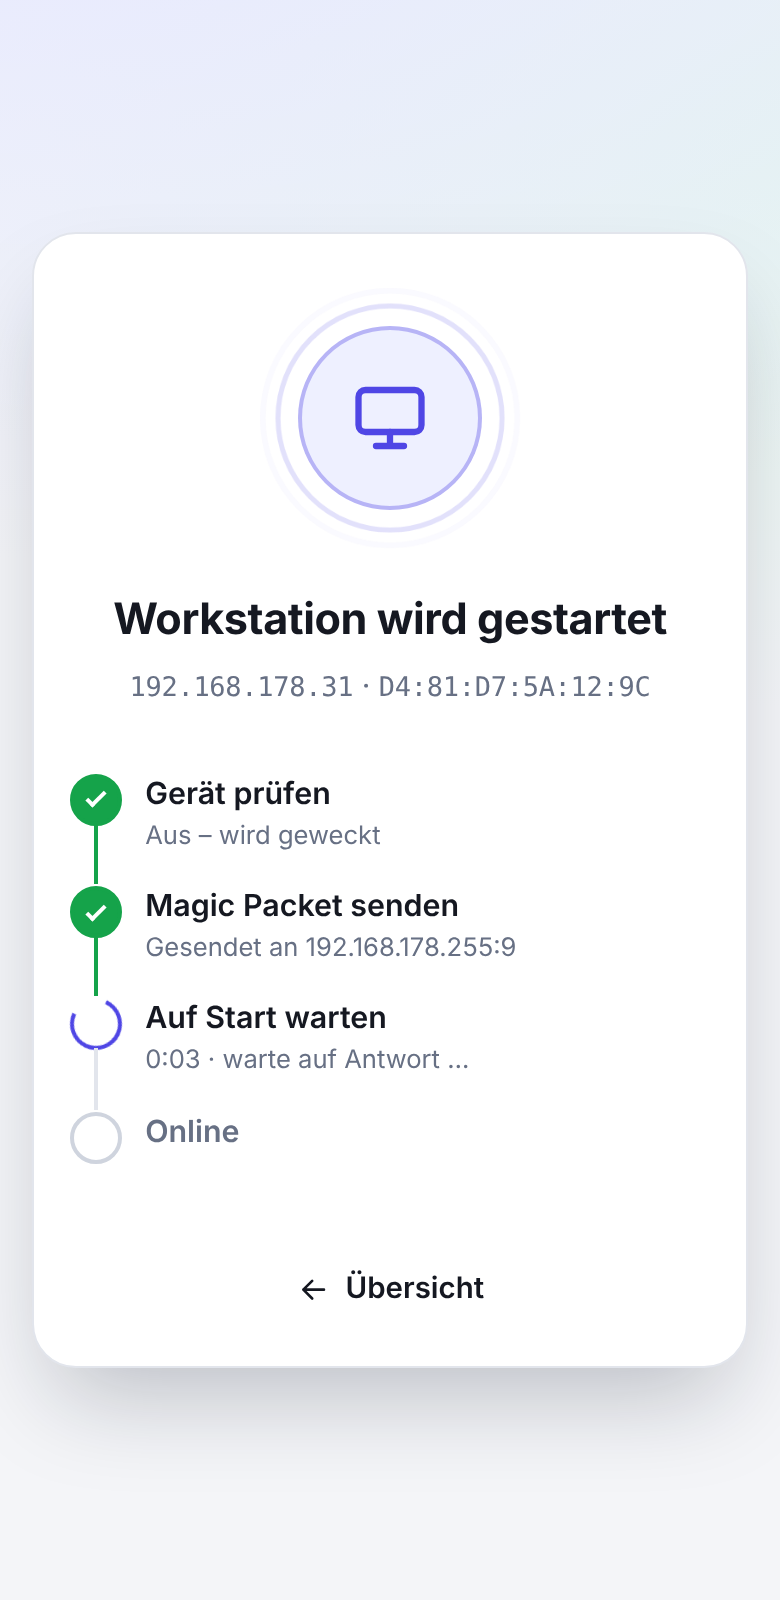
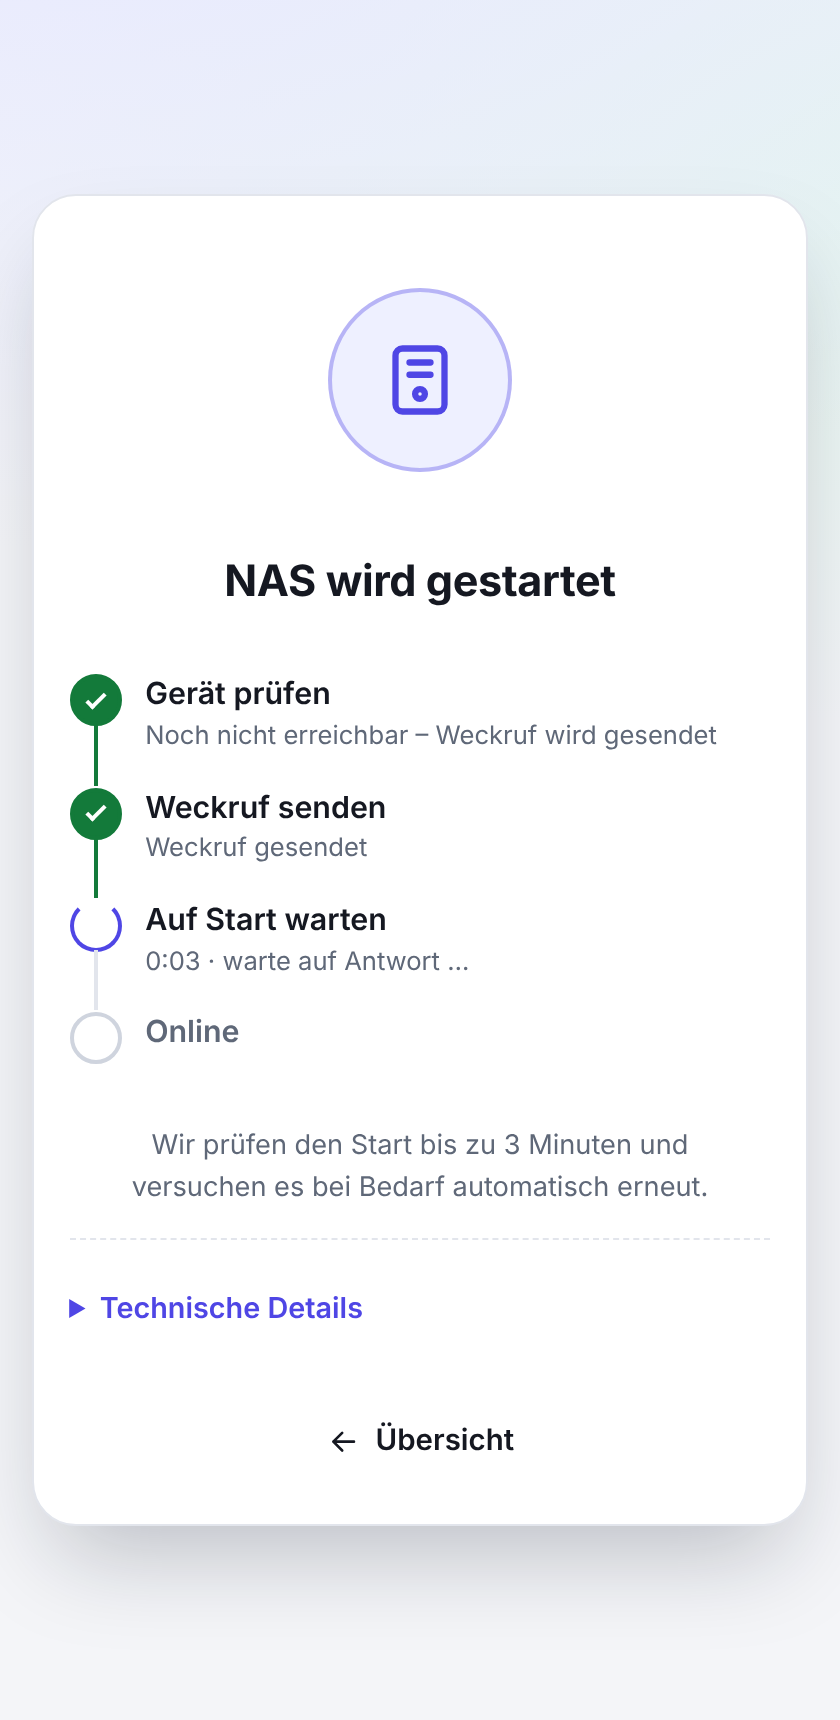
Beispieldaten: keine echt wirkenden Adressen mehr in Doku, Oberfläche, Tests und Bildern
- Screenshots neu – mit der Oberfläche von 1.2 und nur erfundenen Daten:
  Geräte in 192.168.1.x / 10.0.0.x, lokal verwaltete MACs (02:…). Das
  Skript e2e/screenshots.js startet dafür einen eigenen Testserver und
  ersetzt alles, was vom echten Rechner käme (Status, Suchtreffer,
  Schnittstellen, Verlauf), durch Beispieldaten; README nennt es.
- VLAN-Beispiele in README, Einstellungsseite, Texten und Code-Kommentar:
  10.0.0.0/24 statt 192.168.20.0/24.
- Tests: echt aussehende MAC (28:c6:8e:…) durch eine erfundene ersetzt;
  Beispielnetze auf 192.168.1.x / 10.0.0.x. Bewusst geblieben sind die
  Dokumentationsnetze nach RFC 5737 (192.0.2.x, 198.51.100.x, 203.0.113.x)
  – sie dürfen in keinem echten Netz antworten, darauf bauen „offline“-
  und „nicht angeschlossen“-Tests – sowie 172.16.4.0/22 und 10.0.0.0/8 in
  der Broadcast-Berechnung (andere Präfixlängen).
- Testserver: Wartezeiten lassen sich für die Screenshots überschreiben.

Claude-Session: https://claude.ai/code/session_01XTuvtWXjdYAjZCNznXZTMt

diff --git a/e2e/screenshots.js b/e2e/screenshots.js
@@ -1,0 +1,183 @@
+// Screenshots fürs README: node screenshots.js (im Ordner e2e, nach npm ci).
+//
+// Startet einen eigenen Testserver (server.sh) und legt erfundene Geräte an. Alles, was vom
+// echten Rechner käme – Online-Status, Suchtreffer, Schnittstellen, Verlauf –, wird in den
+// Antworten des Servers durch Beispieldaten ersetzt: nur 192.168.1.x / 10.0.0.x und lokal
+// verwaltete MACs (02:…), damit keine echten Adressen in die Bilder geraten.
+const { chromium } = require("@playwright/test");
+const { spawn } = require("child_process");
+const path = require("path");
+
+const PORT = 8431;
+const BASE = `http://127.0.0.1:${PORT}/`;
+const OUT = path.join(__dirname, "..", "docs", "screenshots");
+const H = { "X-WolWeb": "1", "Content-Type": "application/json" };
+
+const ago = (min) => new Date(Date.now() - min * 60000).toISOString();
+const mac = (n) => "02:00:00:00:01:" + n.toString(16).padStart(2, "0").toUpperCase();
+
+// Geräte: online mit Methode, sonst zuletzt gesehen vor … Minuten.
+const DEVICES = [
+  { name: "Drucker", icon: "printer", ip: "192.168.1.40", group: "Büro", online: "icmp" },
+  { name: "Gaming-PC", icon: "desktop", ip: "192.168.1.30", group: "Büro", online: "icmp", rtt: 1 },
+  { name: "Workstation", icon: "desktop", ip: "192.168.1.31", group: "Büro", seen: 17 * 60, schedule: ["Mo-Fr 07:30"] },
+  { name: "Backup-NAS", icon: "nas", ip: "192.168.1.21", group: "Homelab", seen: 3 * 1440, schedule: ["So 03:00"] },
+  { name: "NAS", icon: "nas", ip: "192.168.1.20", group: "Homelab", online: "icmp", note: "Backups und Medien" },
+  { name: "Proxmox", icon: "server", ip: "192.168.1.10", group: "Homelab", online: "tcp/8006", rtt: 2 },
+  { name: "PlayStation", icon: "console", ip: "192.168.1.46", seen: 5 * 1440 },
+  { name: "Wohnzimmer-TV", icon: "tv", ip: "10.0.0.45", seen: 4 * 60 },
+];
+
+const FOUND = [
+  { mac: mac(0x50), ip: "192.168.1.50", hostname: "raspberrypi", vendor: "Raspberry Pi Foundation", network: "192.168.1.0/24" },
+  { mac: mac(0x60), ip: "192.168.1.60", hostname: "homeassistant", vendor: "Raspberry Pi Trading Ltd", network: "192.168.1.0/24" },
+  { mac: mac(0x70), ip: "10.0.0.70", hostname: "steckdose-kueche", vendor: "Espressif Inc.", network: "10.0.0.0/24" },
+  { mac: mac(0x80), ip: "192.168.1.80", hostname: "MacBook-Air", vendor: "Apple, Inc.", network: "192.168.1.0/24" },
+];
+
+const NETS = [
+  { cidr: "192.168.1.0/24", name: "Heimnetz", vlan: 0, iface: "eth0", addr: "192.168.1.2" },
+  { cidr: "10.0.0.0/24", name: "IoT", vlan: 20, iface: "eth0.20", addr: "10.0.0.2" },
+];
+
+function startServer() {
+  // Wartezeiten wie im Betrieb (die Browsertests nehmen kurze)
+  const env = { ...process.env, PORT: String(PORT), WOLWEB_WAKE_TIMEOUT: "3m", WOLWEB_WAKE_RETRY: "45s" };
+  const srv = spawn("sh", ["server.sh"], { cwd: __dirname, env, stdio: "ignore" });
+  return srv;
+}
+async function waitUp(request) {
+  for (let i = 0; i < 180; i++) {
+    try { if ((await request.get(BASE + "health")).ok()) return; } catch (e) { /* startet noch */ }
+    await new Promise((r) => setTimeout(r, 1000));
+  }
+  throw new Error("Testserver startet nicht");
+}
+
+// Antworten des Servers durch die Beispieldaten ergänzen.
+async function fake(page, ids) {
+  const byName = Object.fromEntries(DEVICES.map((d) => [d.name, d]));
+  const status = (d) => d.online
+    ? { state: "online", ip: d.ip, method: d.online, rtt_ms: d.rtt || 0, checked_at: ago(0), last_seen: ago(0) }
+    : { state: "offline", ip: d.ip, checked_at: ago(0), last_seen: ago(d.seen) };
+  const json = (route, body) => route.fulfill({ status: 200, contentType: "application/json", body: JSON.stringify(body) });
+  const pass = async (route, edit) => {
+    const res = await route.fetch();
+    json(route, edit(await res.json()));
+  };
+  await page.route("**/api/v1/events", (r) => r.abort()); // keine Live-Updates mit echten Werten
+  await page.route("**/api/v1/devices", (r) => pass(r, (list) => list.map((v) => {
+    const d = byName[v.name];
+    return d ? { ...v, status: status(d), check_ip: d.ip } : v;
+  })));
+  await page.route(/\/api\/v1\/devices\/[^/]+\/status$/, (r) => {
+    const id = r.request().url().split("/").slice(-2)[0];
+    const d = DEVICES.find((x) => ids[x.name] === id);
+    return json(r, status(d || DEVICES[0]));
+  });
+  await page.route("**/api/v1/info", (r) => pass(r, (v) => ({
+    ...v, version: "1.2.0", networks: NETS.map((n) => n.cidr), networks_auto: false, network_choices: [], timezone: "Europe/Berlin",
+    local_networks: NETS.map((n) => ({ interface: n.iface, addr: n.addr, prefix: n.cidr, broadcast: n.cidr.replace(/0\/24$/, "255:9") })),
+  })));
+  await page.route("**/api/v1/discovery", (r) => json(r, {
+    job: { running: false, networks: NETS.map((n) => n.cidr), method: "arp", total: 508, done: 508, found: FOUND.length + 4, new: FOUND.length, finished_at: ago(19), auto: false },
+    found: FOUND.map((f) => ({ ...f, first_seen: ago(19), last_seen: ago(19), broadcast: f.ip.replace(/\d+$/, "255:9") })),
+  }));
+  await page.route("**/api/v1/settings", (r) => r.request().method() !== "GET" ? r.continue() : pass(r, (v) => ({
+    ...v, locked: {}, file: "config.json", settings_file: "data/settings.json", auto_network: "",
+    settings: { ...v.settings, bcastip: "", discovery: { ...v.settings.discovery, networks: NETS.map((n) => ({ cidr: n.cidr, name: n.name, vlan: n.vlan, scan: true })) } },
+    networks: NETS.map((n) => ({ cidr: n.cidr, name: n.name, vlan: n.vlan, scan: true, label: n.vlan ? `${n.name} (VLAN ${n.vlan})` : n.name,
+      broadcast: n.cidr.replace(/0\/24$/, "255:9"), local: { interface: n.iface, addr: n.addr, prefix: n.cidr, broadcast: n.cidr.replace(/0\/24$/, "255:9") },
+      devices: DEVICES.filter((d) => d.ip.startsWith(n.cidr.slice(0, -4))).length, found: FOUND.filter((f) => f.network === n.cidr).length })),
+    interfaces: NETS.map((n) => ({ interface: n.iface, addr: n.addr, prefix: n.cidr, broadcast: n.cidr.replace(/0\/24$/, "255:9"), configured: true })),
+  })));
+  await page.route("**/api/v1/schedule/preview*", (r) => pass(r, (v) => ({ ...v, zone: "Europe/Berlin" })));
+  await page.route("**/api/v1/history*", (r) => json(r, { events: [
+    { time: ago(2), id: ids.NAS, device: "NAS", source: "link", client: "192.168.1.66", target: "192.168.1.255:9", success: true, checkable: true, started: ago(1.3) },
+    { time: ago(60), id: ids.Proxmox, device: "Proxmox", source: "group", group: "Homelab", target: "192.168.1.255:9", success: true, checkable: true, was_online: true },
+    { time: ago(61), id: ids["Backup-NAS"], device: "Backup-NAS", source: "group", group: "Homelab", target: "192.168.1.255:9", success: true, checkable: true },
+    { time: ago(600), id: ids.Workstation, device: "Workstation", source: "schedule", target: "192.168.1.255:9", success: true, checkable: true, started: ago(599) },
+    { time: ago(1500), id: ids["Wohnzimmer-TV"], device: "Wohnzimmer-TV", source: "ui", target: "10.0.0.255:9", success: false, error: "Netzwerkschnittstelle „eth0.20“: nicht gefunden" },
+  ] }));
+}
+
+async function shoot(browser, name, opts, run) {
+  const { element, ...ctxOpts } = opts;
+  const ctx = await browser.newContext({ viewport: { width: 1280, height: 900 }, deviceScaleFactor: 1, locale: "de-DE", colorScheme: "light", reducedMotion: "reduce", ...ctxOpts });
+  const page = await ctx.newPage();
+  await fake(page, shoot.ids);
+  await run(page);
+  await page.waitForTimeout(800); // Leiste und Dialoge sind eingeblendet, Symbole gezeichnet
+  await page.evaluate(() => Promise.all(document.getAnimations().filter((a) => a.effect && a.effect.getComputedTiming().endTime !== Infinity).map((a) => a.finished.catch(() => {}))));
+  const file = path.join(OUT, name + ".png");
+  if (element) await page.locator(element).screenshot({ path: file });
+  else await page.screenshot({ path: file });
+  await ctx.close();
+  console.log("✓", name);
+}
+
+(async () => {
+  const srv = startServer();
+  const browser = await chromium.launch({ args: ["--lang=de-DE"] }); // Uhrzeitfeld im 24-Stunden-Format
+  try {
+    const ctx = await browser.newContext();
+    await waitUp(ctx.request);
+    const ids = {};
+    for (const [i, d] of DEVICES.entries()) {
+      const res = await ctx.request.post(BASE + "api/v1/devices", { headers: H, data: {
+        name: d.name, mac: mac(i + 1), ip: d.ip, icon: d.icon, group: d.group || "", note: d.note || "", schedule: d.schedule || [], broadcast: "127.0.0.1:9" } });
+      ids[d.name] = (await res.json()).id;
+    }
+    await ctx.close();
+    shoot.ids = ids;
+    const overview = async (page, url = "./") => {
+      await page.goto(BASE + url.replace(/^\.\//, ""));
+      await page.locator(".card").nth(DEVICES.length - 1).waitFor();
+      await page.locator(".pill.online").first().waitFor();
+    };
+
+    await shoot(browser, "overview-light", { viewport: { width: 1280, height: 1050 } }, (p) => overview(p));
+    await shoot(browser, "overview-dark", { viewport: { width: 1280, height: 1050 }, colorScheme: "dark" }, (p) => overview(p));
+    await shoot(browser, "overview-en", { viewport: { width: 1280, height: 1050 }, locale: "en-GB" }, (p) => overview(p, "./?lang=en"));
+    await shoot(browser, "discovery", { viewport: { width: 1280, height: 860 } }, async (p) => {
+      await overview(p);
+      await p.click("#open-discovery");
+      await p.locator(".found").first().waitFor();
+    });
+    await shoot(browser, "device-dialog", { viewport: { width: 1280, height: 980 }, colorScheme: "dark" }, async (p) => {
+      await overview(p);
+      await p.locator(".card", { hasText: "Workstation" }).locator('[data-focus="edit"]').click();
+      await p.locator("#sched-summary strong").waitFor();
+    });
+    await shoot(browser, "history", { viewport: { width: 1280, height: 760 } }, async (p) => {
+      await overview(p);
+      await p.click("#open-history");
+      await p.locator("#history-list li").first().waitFor();
+      await p.locator("#history-list details").first().evaluate((d) => { d.open = true; });
+    });
+    await shoot(browser, "settings", { viewport: { width: 1280, height: 1400 }, element: 'section[aria-labelledby="sec-networks"]' }, async (p) => {
+      await p.goto(BASE + "settings");
+      await p.locator("#net-list li").nth(1).waitFor();
+      await p.locator("#if-list li").first().waitFor();
+    });
+
+    // Weckseite: gesendet und wartend, dann bestätigt (Handygröße)
+    const phone = { viewport: { width: 420, height: 860 }, deviceScaleFactor: 2, isMobile: true, hasTouch: true };
+    for (const [name, online] of [["wake-waiting", false], ["wake-online", true]]) {
+      await shoot(browser, name, phone, async (p) => {
+        let polls = 0;
+        await p.route(/\/wake\/NAS$/, (r) => r.request().method() === "POST"
+          ? r.fulfill({ status: 200, contentType: "application/json", body: JSON.stringify({ success: true, device: "NAS", id: ids.NAS, target: "192.168.1.255:9", message: "Weckruf an NAS gesendet." }) })
+          : r.continue());
+        await p.route(/\/wake\/NAS\/status/, (r) => r.fulfill({ status: 200, contentType: "application/json", body: JSON.stringify(
+          online && ++polls > 2 ? { state: "online", ip: "192.168.1.20", method: "icmp", rtt_ms: 1 } : { state: "offline", ip: "192.168.1.20" }) }));
+        await p.goto(BASE + "wake/NAS");
+        await p.locator(`#wake[data-state="${online ? "online" : "wait"}"]`).waitFor({ timeout: 20000 });
+        if (!online) await p.waitForTimeout(2600); // die Uhr läuft ein Stück
+      });
+    }
+  } finally {
+    await browser.close();
+    srv.kill();
+  }
+})().catch((e) => { console.error(e); process.exitCode = 1; });

diff --git a/internal/web/static/settings.js b/internal/web/static/settings.js
@@ -180,7 +180,7 @@
             el("label", { class: "field" }, el("span", { text: t("set.net.name") }),
               el("input", { name: "net-name", value: n.name, maxlength: "40", autocomplete: "off", placeholder: t("set.net.name_ph"), disabled: off, oninput: upd("name") })),
             el("label", { class: "field" }, el("span", { text: t("set.net.cidr") }),
-              el("input", { name: "net-cidr", value: n.cidr, class: "mono", autocomplete: "off", placeholder: "192.168.20.0/24", required: true, disabled: off, oninput: upd("cidr") })),
+              el("input", { name: "net-cidr", value: n.cidr, class: "mono", autocomplete: "off", placeholder: "10.0.0.0/24", required: true, disabled: off, oninput: upd("cidr") })),
             el("label", { class: "field net-vlan" }, el("span", { text: t("set.net.vlan") }),
               el("input", { name: "net-vlan", value: n.vlan, inputmode: "numeric", autocomplete: "off", placeholder: "–", disabled: off, oninput: upd("vlan") }))),
           netStatus(n),

diff --git a/internal/web/templates/settings.html b/internal/web/templates/settings.html
@@ -53,13 +53,13 @@
         <p>{{.T "set.help.intro"}}</p>
         <h4>Proxmox (LXC)</h4>
         <p>{{.T "set.help.proxmox"}}</p>
-        <pre tabindex="0"><code>pct set &lt;ID&gt; -net1 name=eth1,bridge=vmbr0,tag=20,ip=192.168.20.5/24</code></pre>
+        <pre tabindex="0"><code>pct set &lt;ID&gt; -net1 name=eth1,bridge=vmbr0,tag=20,ip=10.0.0.5/24</code></pre>
         <h4>Docker</h4>
         <p>{{.T "set.help.docker"}}</p>
         <h4>Debian, Raspberry Pi OS, Ubuntu</h4>
         <p>{{.T "set.help.linux"}}</p>
         <pre tabindex="0"><code>ip link add link eth0 name eth0.20 type vlan id 20
-ip addr add 192.168.20.5/24 dev eth0.20
+ip addr add 10.0.0.5/24 dev eth0.20
 ip link set eth0.20 up</code></pre>
         <p>{{.T "set.help.after"}}</p>
       </details>

diff --git a/internal/config/settings_test.go b/internal/config/settings_test.go
@@ -12,20 +12,20 @@ import (
 
 func TestNetworkJSON(t *testing.T) {
 	var d Discovery
-	if err := json.Unmarshal([]byte(`{"networks":["192.168.1.0/24",{"cidr":"10.0.20.0/24","name":"IoT","vlan":20},{"cidr":"10.0.30.0/24","scan":false}]}`), &d); err != nil {
+	if err := json.Unmarshal([]byte(`{"networks":["192.168.1.0/24",{"cidr":"10.0.0.0/25","name":"IoT","vlan":20},{"cidr":"10.0.0.128/25","scan":false}]}`), &d); err != nil {
 		t.Fatal(err)
 	}
-	want := []Network{{CIDR: "192.168.1.0/24", Scan: true}, {CIDR: "10.0.20.0/24", Name: "IoT", VLAN: 20, Scan: true}, {CIDR: "10.0.30.0/24"}}
+	want := []Network{{CIDR: "192.168.1.0/24", Scan: true}, {CIDR: "10.0.0.0/25", Name: "IoT", VLAN: 20, Scan: true}, {CIDR: "10.0.0.128/25"}}
 	for i, n := range want {
 		if d.Networks[i] != n {
 			t.Errorf("Netz %d: %+v, erwartet %+v", i, d.Networks[i], n)
 		}
 	}
-	if got := strings.Join(d.ScanCIDRs(), " "); got != "192.168.1.0/24 10.0.20.0/24" {
+	if got := strings.Join(d.ScanCIDRs(), " "); got != "192.168.1.0/24 10.0.0.0/25" {
 		t.Errorf("durchsucht: %s", got)
 	}
 	b, _ := json.Marshal(d.Networks)
-	if string(b) != `["192.168.1.0/24",{"cidr":"10.0.20.0/24","name":"IoT","vlan":20,"scan":true},{"cidr":"10.0.30.0/24","scan":false}]` {
+	if string(b) != `["192.168.1.0/24",{"cidr":"10.0.0.0/25","name":"IoT","vlan":20,"scan":true},{"cidr":"10.0.0.128/25","scan":false}]` {
 		t.Errorf("geschrieben: %s", b)
 	}
 	if l := d.Networks[1].Label(); l != "IoT (VLAN 20)" {
@@ -65,13 +65,13 @@ func TestSettingsLayers(t *testing.T) {
 
 	e := m.Config().Editable()
 	e.Discovery.Interval = "1h"
-	e.Discovery.Networks = append(e.Discovery.Networks, Network{CIDR: "10.0.20.1/24", Name: " IoT ", VLAN: 20, Scan: true})
+	e.Discovery.Networks = append(e.Discovery.Networks, Network{CIDR: "10.0.0.1/25", Name: " IoT ", VLAN: 20, Scan: true})
 	e.Status.Interval = "5m" // gesperrt: zählt nicht
 	cfg, err := m.Save(e)
 	if err != nil {
 		t.Fatal(err)
 	}
-	if cfg.Discovery.Interval != "1h" || cfg.Status.Interval != "45s" || cfg.Discovery.Networks[1] != (Network{CIDR: "10.0.20.0/24", Name: "IoT", VLAN: 20, Scan: true}) {
+	if cfg.Discovery.Interval != "1h" || cfg.Status.Interval != "45s" || cfg.Discovery.Networks[1] != (Network{CIDR: "10.0.0.0/25", Name: "IoT", VLAN: 20, Scan: true}) {
 		t.Fatalf("übernommen: %+v", cfg.Discovery)
 	}
 	// Nur Abweichungen von config.json, nichts Gesperrtes

diff --git a/internal/store/store_test.go b/internal/store/store_test.go
@@ -18,8 +18,8 @@ func TestLegacyImport(t *testing.T) {
 	dir := t.TempDir()
 	legacy := filepath.Join(dir, "old.json")
 	os.WriteFile(legacy, []byte(`{"devices":[
-		{"name":"NAS","mac":"28-c6-8e-36-dc-38","ip":"192.168.1.255:9","interface":""},
-		{"name":"NAS","mac":"28:c6:8e:36:dc:39","ip":"10.0.0.255"},
+		{"name":"NAS","mac":"02-aa-bb-cc-dc-38","ip":"192.168.1.255:9","interface":""},
+		{"name":"NAS","mac":"02:aa:bb:cc:dc:39","ip":"10.0.0.255"},
 		{"name":"kaputt","mac":"xyz","ip":""}]}`), 0o644)
 	s, notes, err := Open(filepath.Join(dir, "data"), legacy)
 	if err != nil {
@@ -35,7 +35,7 @@ func TestLegacyImport(t *testing.T) {
 	if devs[0].Name != "NAS" || devs[1].Name != "NAS 2" {
 		t.Errorf("Namen: %q, %q", devs[0].Name, devs[1].Name)
 	}
-	if devs[0].MAC != "28:C6:8E:36:DC:38" || devs[0].Broadcast != "192.168.1.255:9" || devs[1].Broadcast != "10.0.0.255:9" {
+	if devs[0].MAC != "02:AA:BB:CC:DC:38" || devs[0].Broadcast != "192.168.1.255:9" || devs[1].Broadcast != "10.0.0.255:9" {
 		t.Errorf("Umwandlung falsch: %+v", devs)
 	}
 	// Neu öffnen: eigenes Format, gleiche Daten

diff --git a/internal/web/settings_test.go b/internal/web/settings_test.go
@@ -72,7 +72,7 @@ func TestSettingsAPI(t *testing.T) {
 	// Ändern: gilt sofort, ohne Neustart
 	e := v.Settings
 	e.Status.WakeRetry = "10s"
-	e.Discovery.Networks = append(e.Discovery.Networks, config.Network{CIDR: "10.9.20.0/24", Name: "IoT", VLAN: 20, Scan: true})
+	e.Discovery.Networks = append(e.Discovery.Networks, config.Network{CIDR: "10.0.0.0/24", Name: "IoT", VLAN: 20, Scan: true})
 	e.Language = "en"
 	b, _ := json.Marshal(e)
 	rec = call(h, "PUT", "/api/v1/settings", string(b))
@@ -87,7 +87,7 @@ func TestSettingsAPI(t *testing.T) {
 		t.Errorf("Antwort: %v %+v", v.Stored, v.Networks)
 	}
 	// Ein Gerät im IoT-Netz ohne eigene Schnittstelle bekommt den gerichteten Broadcast.
-	if got := s.wakeTarget(store.Device{MAC: "00:11:22:33:44:55", IP: "10.9.20.7"}); got != "10.9.20.255:9" {
+	if got := s.wakeTarget(store.Device{MAC: "00:11:22:33:44:55", IP: "10.0.0.7"}); got != "10.0.0.255:9" {
 		t.Errorf("Ziel im fremden VLAN: %s", got)
 	}
 	var info map[string]any

diff --git a/internal/i18n/i18n_test.go b/internal/i18n/i18n_test.go
@@ -48,8 +48,8 @@ func TestT(t *testing.T) {
 	}
 	// Verschachtelte Meldung wird mitübersetzt, Fehler bleiben mit errors.Is erreichbar.
 	inner := errors.New("connection refused")
-	m := M("wol.send", "1.2.3.4:9", inner)
-	if got := m.In(EN); got != "Sending to 1.2.3.4:9: connection refused" {
+	m := M("wol.send", "192.168.1.255:9", inner)
+	if got := m.In(EN); got != "Sending to 192.168.1.255:9: connection refused" {
 		t.Errorf("verschachtelt: %q", got)
 	}
 	if !errors.Is(m, inner) {

diff --git a/internal/config/config.go b/internal/config/config.go
@@ -47,7 +47,7 @@ type Discovery struct {
 }
 
 // Network ist ein Netzsegment, oft ein VLAN. In config.json genügt "192.168.1.0/24"; mit Namen:
-// {"cidr": "192.168.20.0/24", "name": "IoT", "vlan": 20, "scan": false}.
+// {"cidr": "10.0.0.0/24", "name": "IoT", "vlan": 20, "scan": false}.
 type Network struct {
 	CIDR string `json:"cidr"`
 	Name string `json:"name,omitempty"`

diff --git a/internal/web/server_test.go b/internal/web/server_test.go
@@ -134,7 +134,7 @@ func TestDefaultBroadcast(t *testing.T) {
 	}{
 		{"", nil, auto},
 		{"", []string{"10.0.0.0/24"}, "10.0.0.255:9"},
-		{"", []string{"10.0.0.0/24", "10.0.1.0/24"}, "255.255.255.255:9"},
+		{"", []string{"192.168.1.0/24", "10.0.0.0/24"}, "255.255.255.255:9"},
 		{"192.168.1.255", []string{"10.0.0.0/24"}, "192.168.1.255:9"},
 	} {
 		cfg := config.Default()
